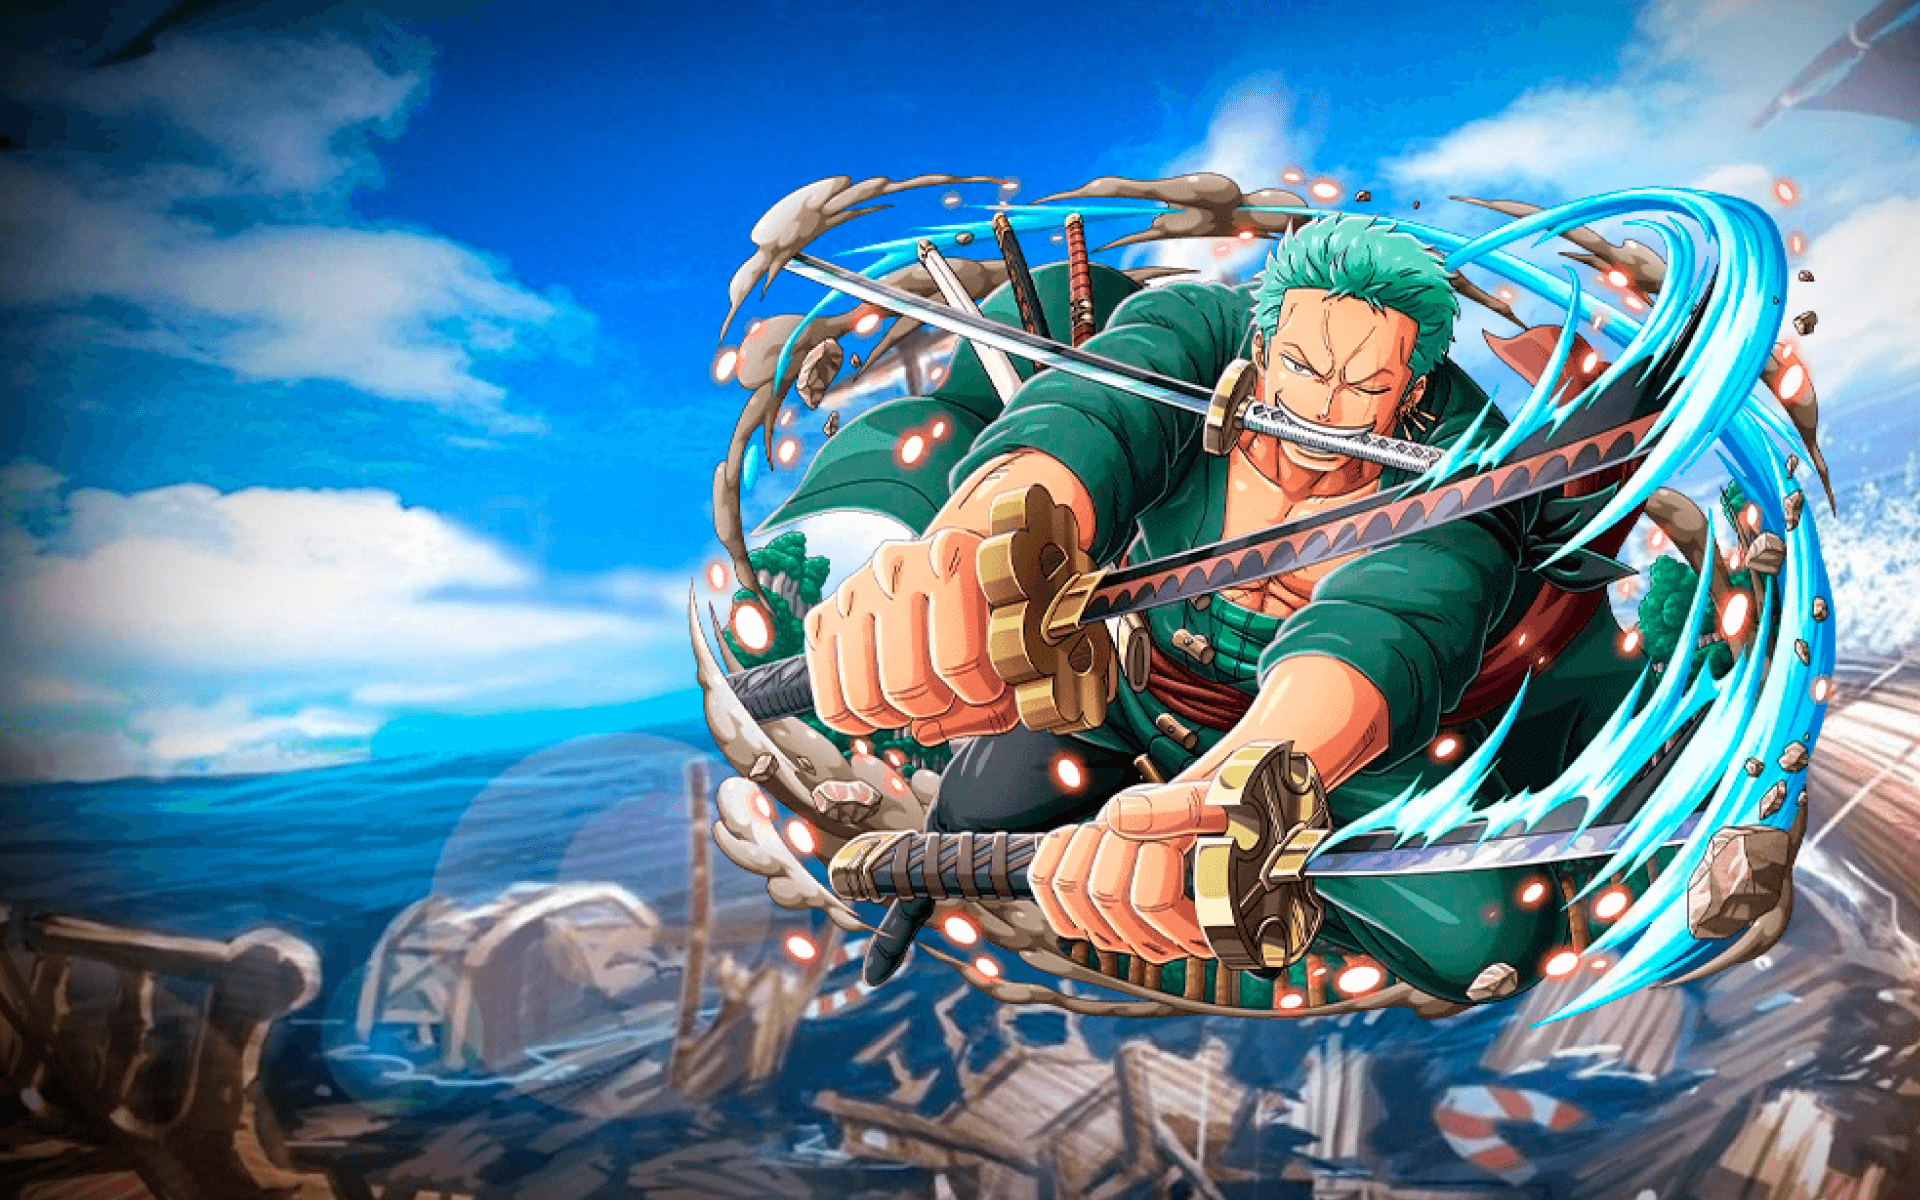
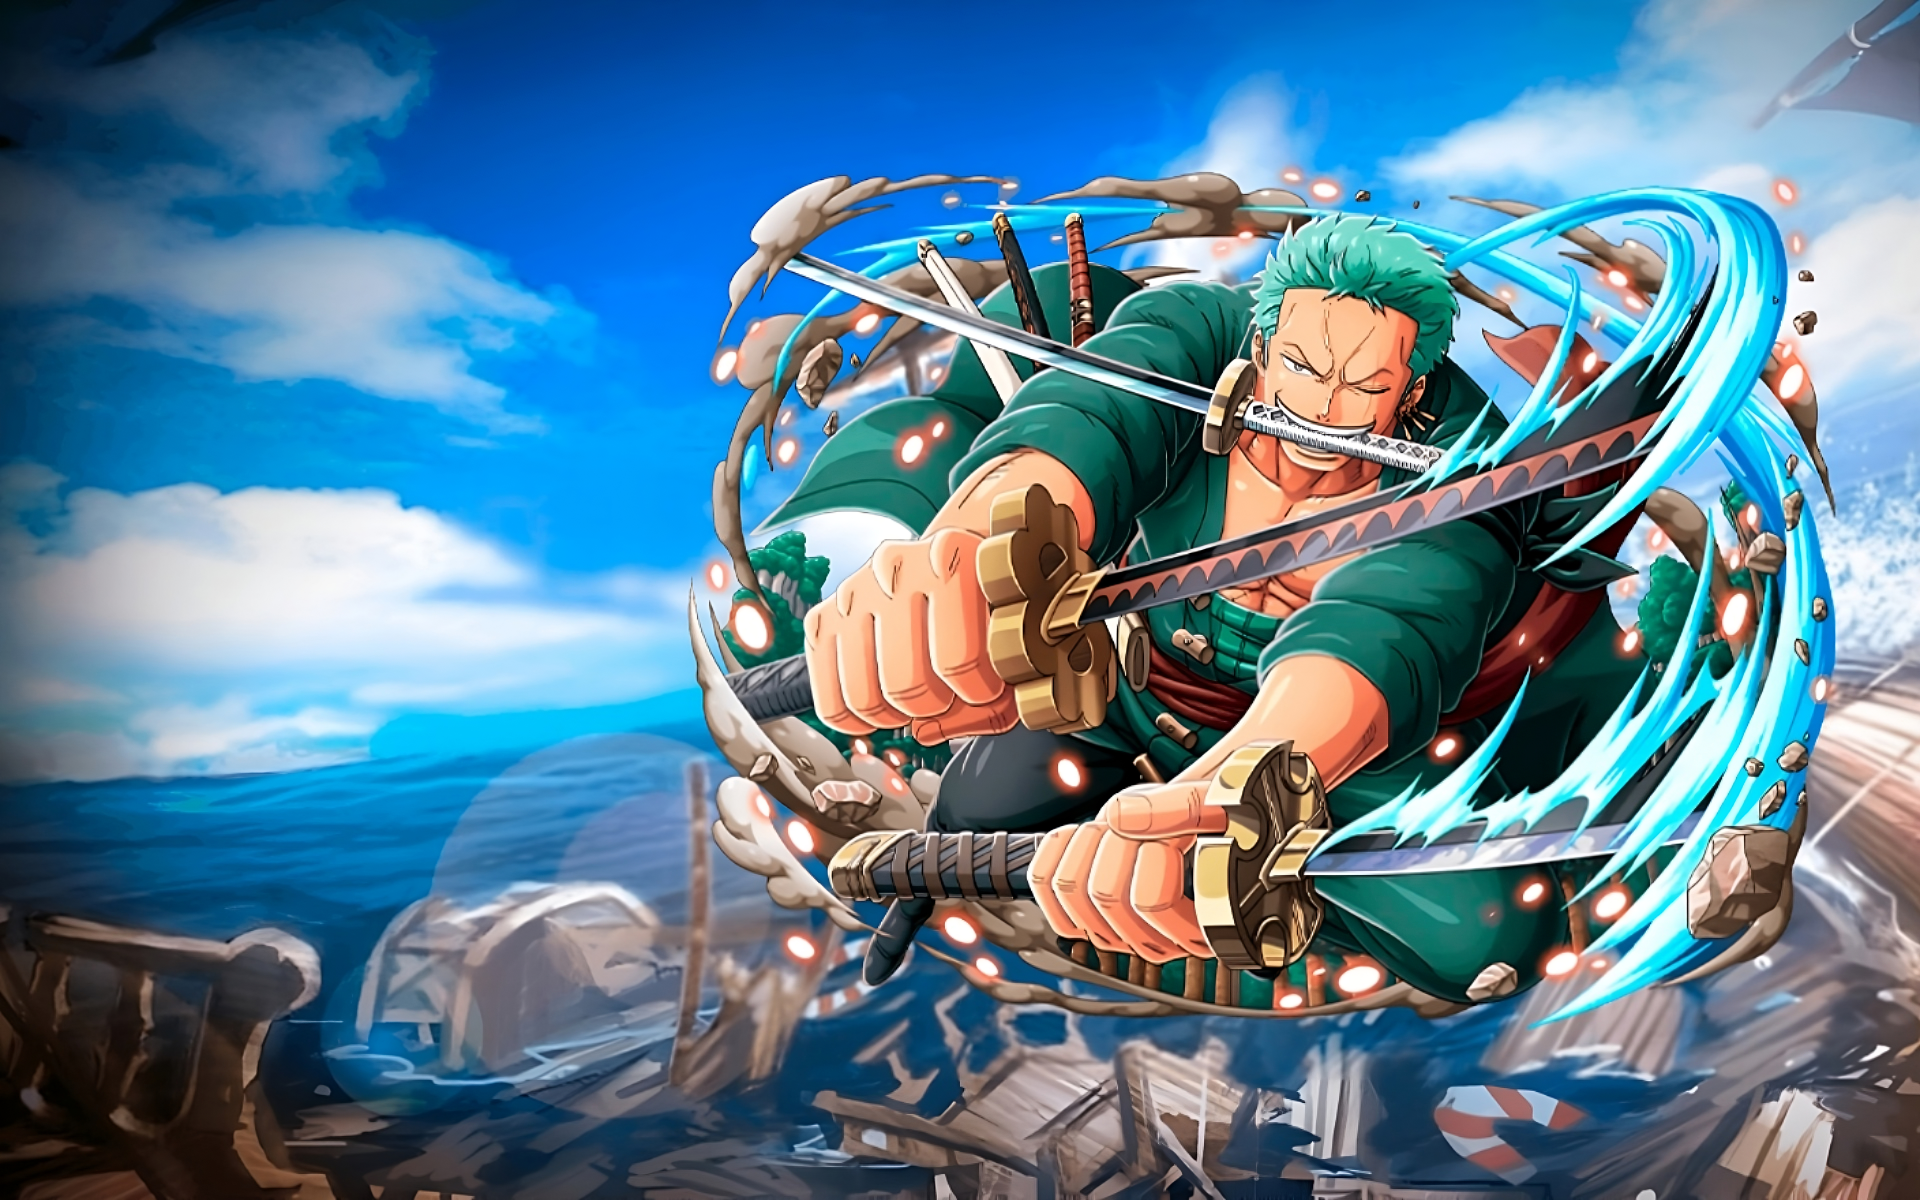
upscaling das imagens e criado o readme

diff --git a/src/css/estilos.css b/src/css/estilos.css
@@ -75,13 +75,18 @@ main .personagem .imagem {
     align-items: center;
     gap: 10px;
     background-color: rgba(0, 0, 0, 0.3);
+    transition: 0.2s;
 }
 
 .botoes .botao {
+    display: flex;
+    align-items: center;
+    justify-content: center;
     border: none;
     background: black;
     cursor: pointer;
     border-radius: 50%;
+    transition: 0.2s;
 }
 
 .botoes .botao img {

diff --git a/src/css/reset.css b/src/css/reset.css
@@ -2,6 +2,7 @@
     margin: 0;
     padding: 0;
     box-sizing: border-box;
+    
 }
 
 ul {

diff --git a/README.md b/README.md
@@ -1,0 +1,49 @@
+## Índice
+
+- [Visão geral](#visão-geral)
+- [Captura de tela](#captura-de-tela)
+- [Links](#links)
+- [Meu processo](#meu-processo)
+- [Criado com](#criado-com)
+- [O que aprendi](#o-que-aprendi)
+- [Desenvolvimento contínuo](#desenvolvimento-continuo)
+- [Autor](#autor)
+- [Agradecimentos](#agradecimentos)
+
+## Visão geral
+
+Essa página foi criada duarante a Semana do Zero ao Programador Contratado, evento realizado pelo Dev em Dobro, onde foi feito o meu primeiro site usando HTML, CSS e JavaScript.
+
+### Captura de tela
+
+<img src="./src/imagens/onepiece-pc.PNG">
+<img src="./src/imagens/onepiece-phone.PNG">
+
+### Links
+
+- URL do site ativo: [https://mariocarlaibe.github.io/projeto-one-piece/](https://mariocarlaibe.github.io/projeto-one-piece/)
+
+## Meu processo
+
+### Criado com
+
+- HTML
+- CSS
+- Flexbox
+- JavaScript
+- Upscaling IA
+
+### O que aprendi
+
+Essa foi a base para tudo o que eu sei até agora, foi o início da minha paixão em programação. Considero esse prejeto um marcaco na minha vida.
+
+### Desenvolvimento contínuo
+
+## Autor
+
+- Site - [Mário Carlaibe](https://github.com/MarioCarlaibe)
+- Mentor de front-end - [@MarioCarlaibe](https://www.frontendmentor.io/profile/MarioCarlaibe)
+
+## Agradecimentos
+
+Agradeço ao DevQuest pelo conhecimento adquirido e as instruções fornecidas.
